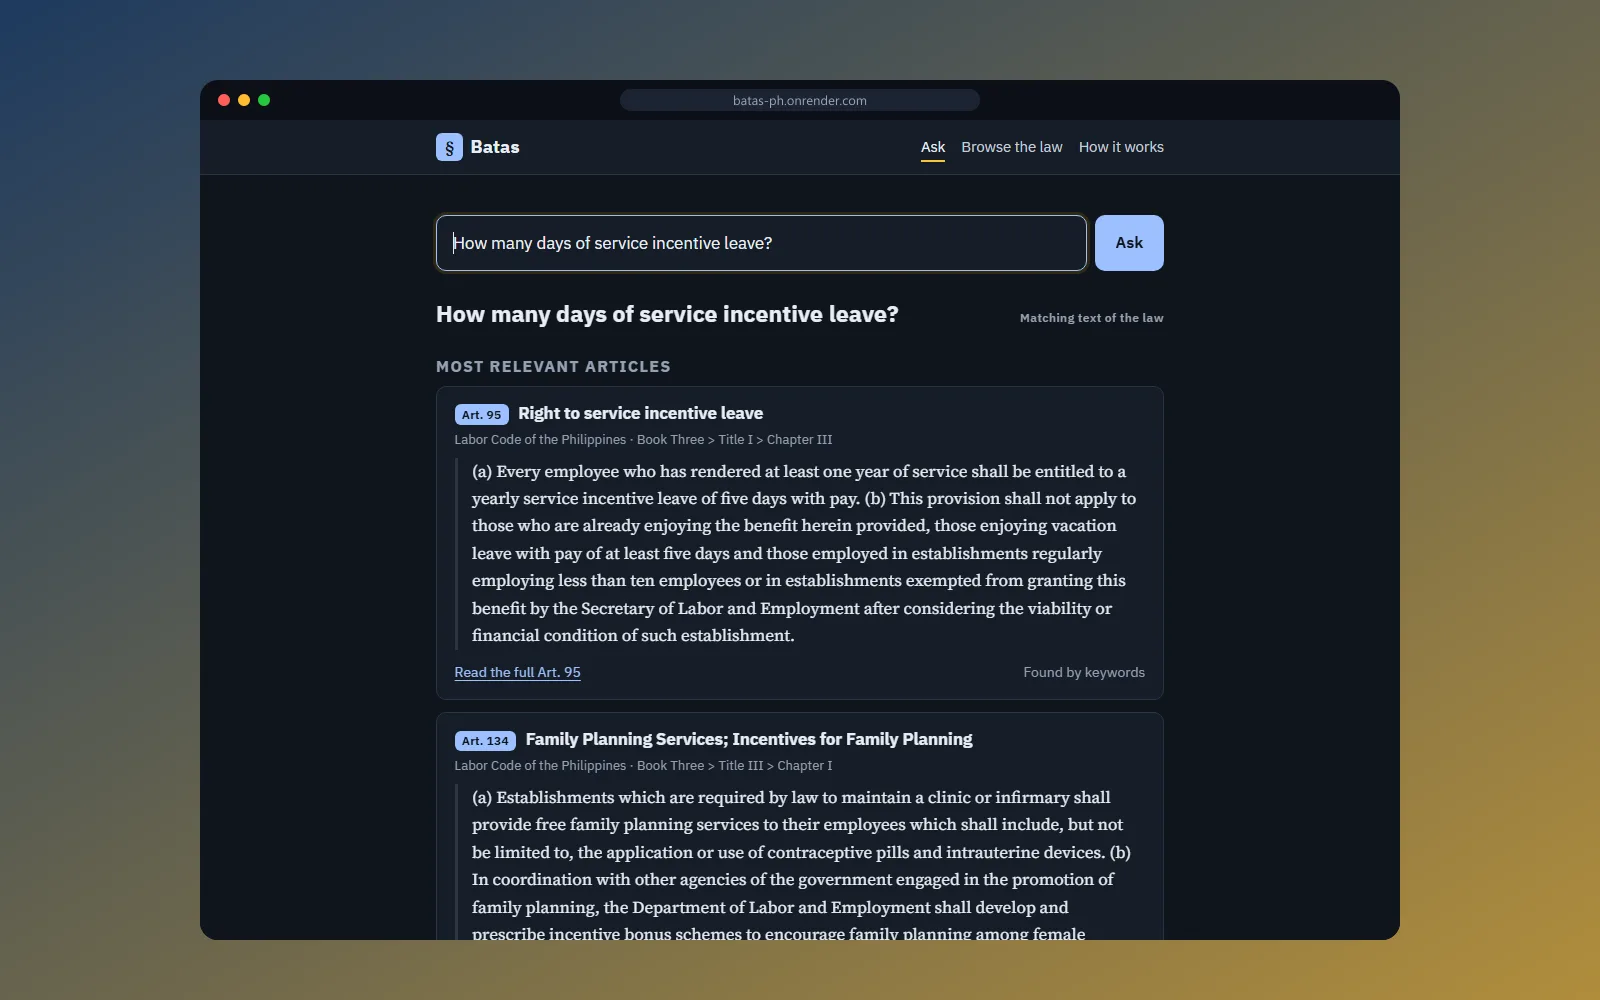
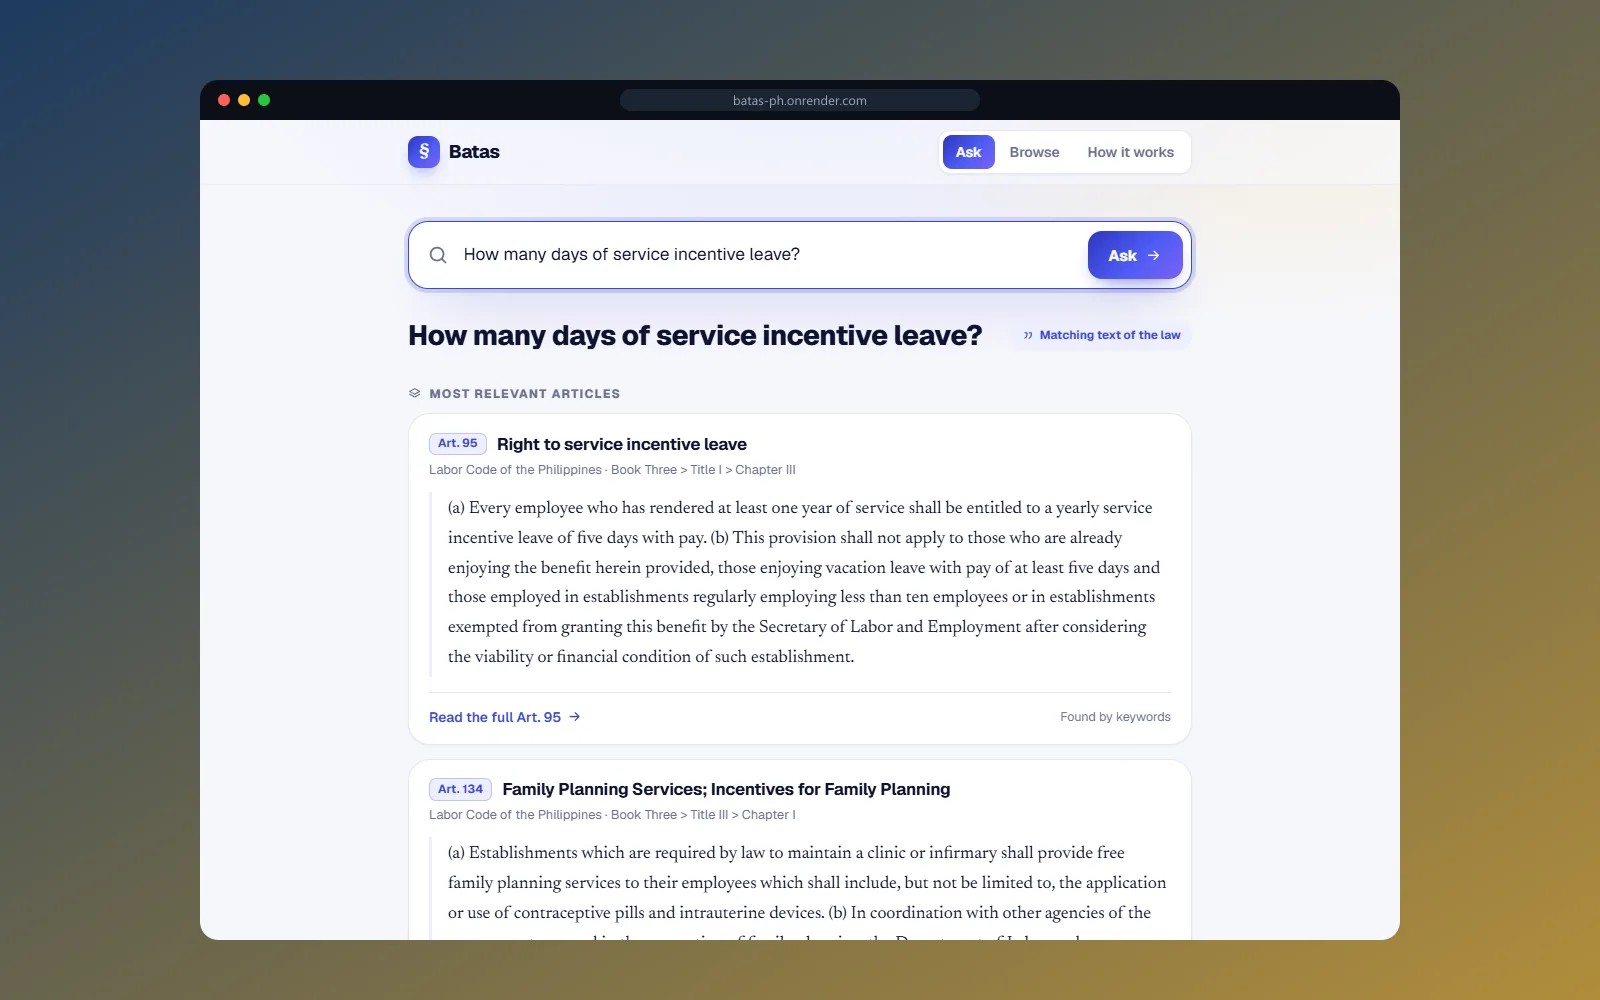
Add Tala, a live class-record app; refresh the Batas screenshot for its new design

diff --git a/src/constants/index.js b/src/constants/index.js
@@ -15,7 +15,7 @@ export const BRAND = {
 // bio/status copy; update freely.
 export const NOW = [
   { icon: "ri-rocket-line", label: "SHIPPING", value: "ProSupport Squad — Laravel/Blade marketplace for a US-based team" },
-  { icon: "ri-flashlight-line", label: "EXPLORING", value: "RAG, DevOps, MCP and PWAs, shipped in Batas, RestoCore and Abot" },
+  { icon: "ri-flashlight-line", label: "EXPLORING", value: "RAG, DevOps, MCP and PWAs, shipped in Tala, Batas, RestoCore and Abot" },
   { icon: "ri-map-pin-2-line", label: "BASED IN", value: "Bacolod City, Philippines · GMT+8" },
 ];
 
@@ -39,7 +39,7 @@ export const SECTIONS = RAIL_LINKS.map((l) => l.id);
 
 // Ticker under the hero: where the work has shipped.
 export const DEPLOYED_FOR = [
-  "BATAS + RESTOCORE + ABOT · LIVE DEMOS",
+  "TALA + BATAS + RESTOCORE + ABOT · LIVE DEMOS",
   "PROSUPPORT SQUAD · US",
   "DHSUD · NEGROS ISLAND REGION",
   "BACOLOD CITY FLOOD MAP",
@@ -91,6 +91,24 @@ export const FEATURED_PROJECT = {
 // Optional per project: `links: [{ label, url }]` (repo, live demo, write-up).
 // Without links the panel offers "walkthrough on request" via the contact form.
 export const PROJECTS = [
+  {
+    id: 8,
+    title: "Tala",
+    subtitle: "Class Record for Filipino Teachers // Live Demo",
+    attention: true,
+    badge: "LIVE DEMO",
+    description:
+      "A class record built for how Filipino teachers work: take attendance by tapping faces on the seat plan, calling names one by one, or scanning learners' QR cards with a phone. Rearrange seats by drag or shuffle, compute quarterly grades the DepEd way (weights, transmutation), and see the least-mastered competencies from item-by-item quiz checking. “Tala” means record, and star.",
+    image: "/pictures/TALA_SS.webp",
+    tags: ["Django", "PostgreSQL", "Docker", "JavaScript", "QR", "GitHub Actions"],
+    features: ["Seat-plan, Roll-call & QR Attendance", "DepEd Grade Computation & Item Analysis", "Private Demo per Visitor"],
+    impact:
+      "Grade math tested at every transmutation band edge; a test walks every URL to prove other teachers get 404; works without JavaScript under a strict CSP. 105 tests at 96% coverage.",
+    links: [
+      { label: "Live demo", url: "https://tala-ph.onrender.com", icon: "ri-external-link-line", primary: true },
+      { label: "Source code", url: "https://github.com/CUSTIX/Tala", icon: "ri-github-fill" },
+    ],
+  },
   {
     id: 7,
     title: "Batas",
@@ -360,6 +378,11 @@ export const FAQ_RESPONSES = [
       "ProSupport Squad is a U.S.-based virtual-assistant marketplace John engineered on Laravel and Blade: verified profiles, hiring flow, a live agent dashboard with time tracking, and Stripe/Twilio/Wise integrations, deployed on DigitalOcean behind Cloudflare.",
   },
   {
+    keywords: ["tala", "teacher", "class record", "attendance", "seat plan", "grade", "deped", "item analysis", "qr code", "school"],
+    response:
+      "Tala is John's class record for Filipino teachers, live at tala-ph.onrender.com (one tap creates a private demo with made-up learners). Attendance by tapping the seat plan, one-by-one roll call or scanning learners' QR cards; a drag-and-shuffle seat plan; DepEd grade computation with transmutation; item analysis with least-mastered competencies; a recitation picker and read-only parent links. Django + PostgreSQL, 105 tests; source at github.com/CUSTIX/Tala.",
+  },
+  {
     keywords: ["batas", " rag", "rag?", "retrieval", "labor", "labour", "legal", "citation", "embedding", "pgvector", "gemini"],
     response:
       "Batas is John's RAG project: ask Philippine labor law a question in English or Taglish and get the Labor Code articles that answer it, live at batas-ph.onrender.com. Django + PostgreSQL with pgvector; keyword (BM25) and meaning search fused by reciprocal rank fusion, Gemini answers only from the retrieved articles, and every citation is checked. Retrieval is scored in CI (100% recall@5 tuning, 75% held-out). Source at github.com/CUSTIX/Batas.",
@@ -402,6 +425,6 @@ export const FAQ_RESPONSES = [
   {
     keywords: ["project", "work", "built", "portfolio", "case study"],
     response:
-      "Highlights: ProSupport Squad (the featured case study), RestoCore (a restaurant system with a live demo), Abot (a payday-first money app, also live), Batas (labor-law Q&A with checked citations, a live RAG demo), the Bacolod City Flood Map & Alert System, two DHSUD government systems (HOA CDD and ELUPDD), and SENTINELS, an awarded 2nd Best Thesis. Open the Project archive rows to see each one.",
+      "Highlights: ProSupport Squad (the featured case study), RestoCore (a restaurant system with a live demo), Abot (a payday-first money app, also live), Batas (labor-law Q&A with checked citations, a live RAG demo), Tala (a class record for teachers, also live), the Bacolod City Flood Map & Alert System, two DHSUD government systems (HOA CDD and ELUPDD), and SENTINELS, an awarded 2nd Best Thesis. Open the Project archive rows to see each one.",
   },
 ];
